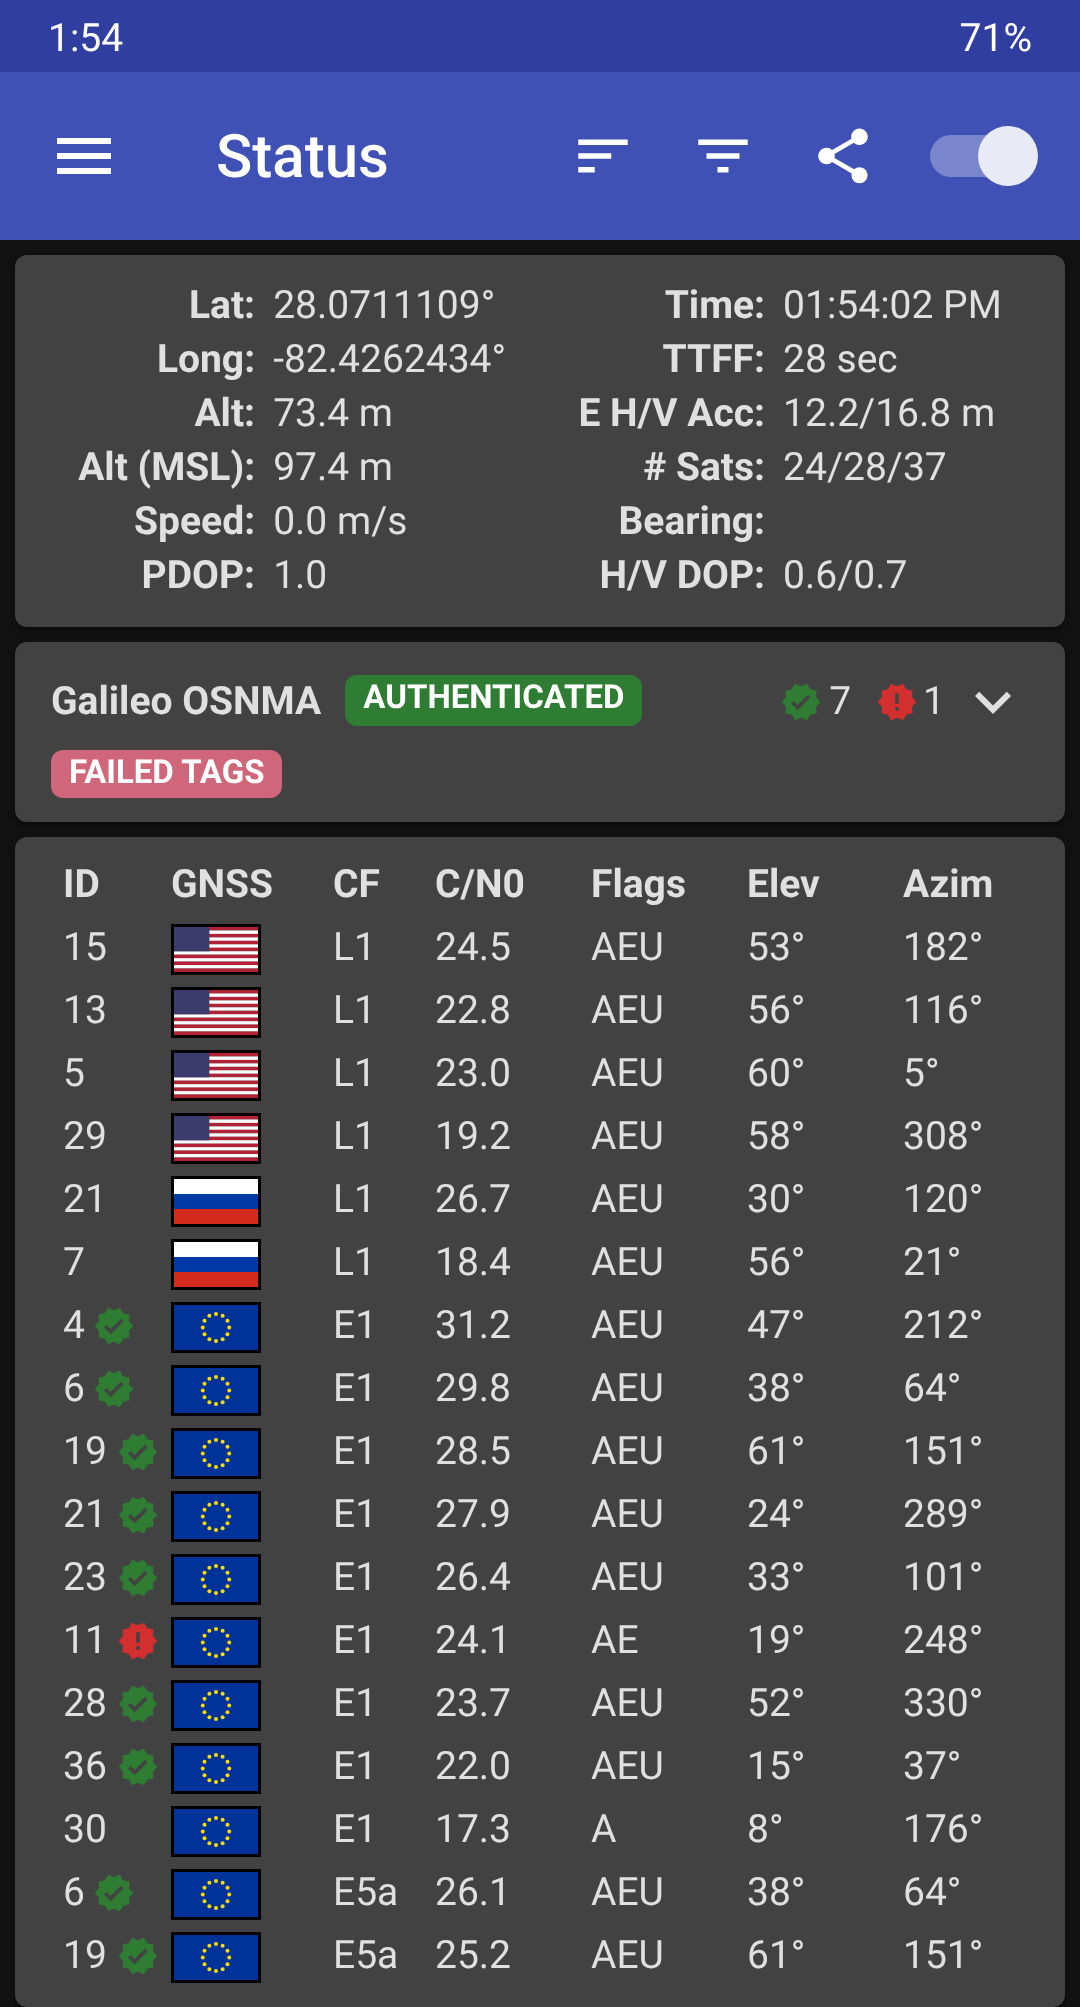
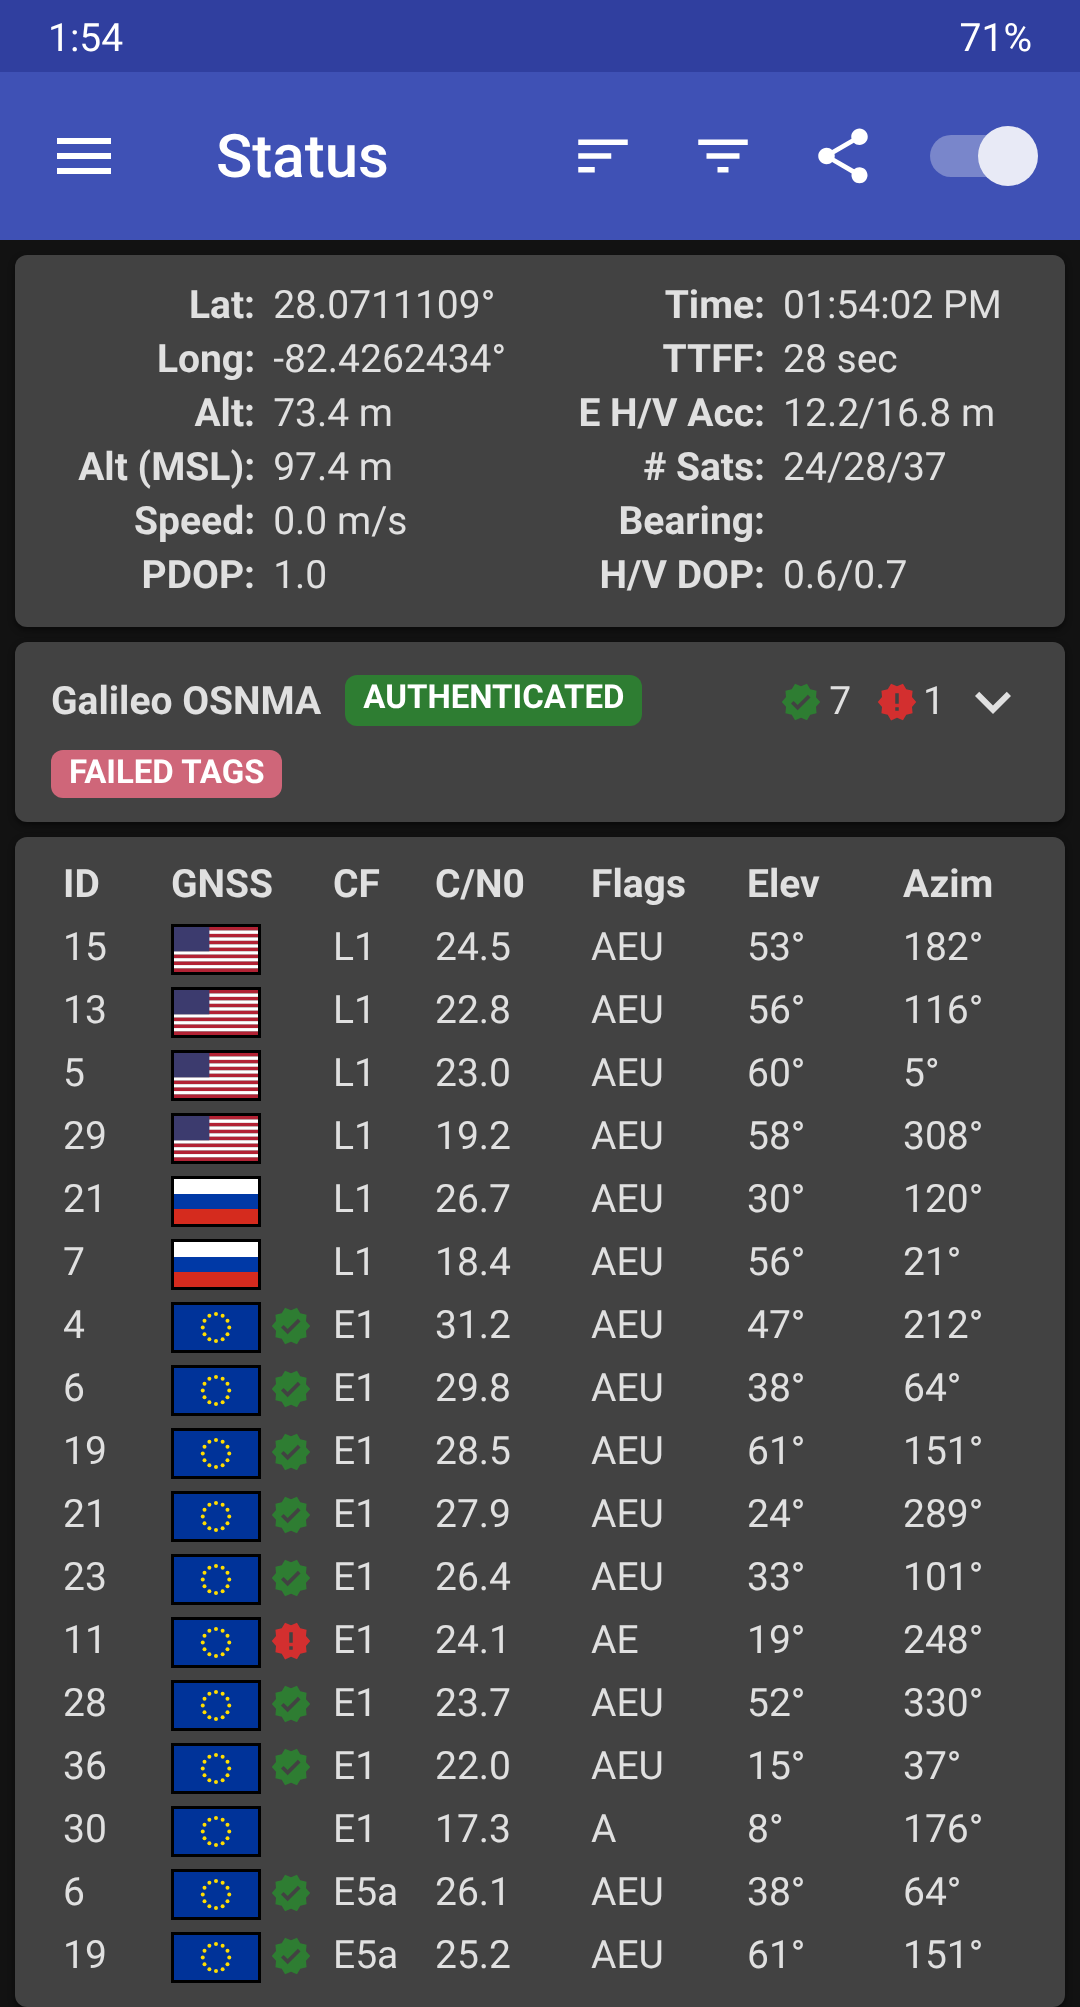
OSNMA: seal next to the flag, Google TrustedTime for the time check
- Show the Galileo OSNMA seal next to the flag instead of the ID: the
  flag leaves room for it within the column's minimum width, so no
  column gets wider on narrow screens
- Google flavor: check the Galileo time against Google Play services'
  TrustedTime API (play-services-time), falling back to network time
  and then the device clock; the osmdroid flavor is unchanged

Claude-Session: https://claude.ai/code/session_01XzyNHxmXusfF5cWYLfTVVF

diff --git a/library/src/main/java/com/android/gpstest/library/data/OsnmaRepository.kt b/library/src/main/java/com/android/gpstest/library/data/OsnmaRepository.kt
@@ -62,17 +62,14 @@ data class OsnmaUiState(
     /** An OSNMA Alert Message revoked the key material; new keys must be imported */
     val keysRevoked: Boolean = false,
     /**
-     * Difference between the reference time ([timeSourceNetwork]) and the Galileo System Time
+     * Difference between the reference time ([timeSource]) and the Galileo System Time
      * read from the signal, in seconds, or null if unknown. OSNMA is only meaningful if the
      * receiver knows the time independently of the signal it authenticates (OSNMA Receiver
      * Guidelines sections 2.1 and 5.3.1); see TimeSync.
      */
     val clockOffsetSeconds: Long? = null,
-    /**
-     * The reference time is Android's network time (NTP, Android 13 and later). Otherwise it's
-     * the device clock, which some devices set from GNSS and so isn't independent of the signal.
-     */
-    val timeSourceNetwork: Boolean = false,
+    /** Where the reference time for [clockOffsetSeconds] comes from */
+    val timeSource: TimeSource = TimeSource.DEVICE_CLOCK,
     /** Galileo pages were being received but stopped arriving while tracking continued */
     val pagesStalled: Boolean = false,
     /** Page timing diagnostics, see [InavTimeTracker] */
@@ -134,6 +131,27 @@ data class OsnmaUiState(
     }
 }
 
+/**
+ * A source of the current time that's independent of GNSS, e.g. Google's TrustedTime API in the
+ * google build flavor (see [OsnmaRepository.trustedTimeSource])
+ */
+fun interface TrustedTimeSource {
+    /** The current UTC time in ms since the Unix epoch, or null if not available right now */
+    fun currentUtcMillis(): Long?
+}
+
+/** Reference time used to check the Galileo time in the signal, in order of preference */
+enum class TimeSource {
+    /** A [TrustedTimeSource], e.g. Google's TrustedTime API (google build flavor) */
+    TRUSTED_TIME,
+
+    /** Android's network time (NTP), Android 13 and later */
+    NETWORK_TIME,
+
+    /** The device clock, which some devices set from GNSS: not independent of the signal */
+    DEVICE_CLOCK
+}
+
 /** Whether the receiver clock (GnssClock) can be used to time Galileo pages, and if not, why */
 enum class ReceiverClockStatus {
     OK,
@@ -188,7 +206,15 @@ class OsnmaRepository @Inject constructor(
     private var crcChecked = 0
     private var trustPlatformParity = false
     private var clockOffsetSeconds: Long? = null
-    private var timeSourceNetwork = false
+    private var timeSource = TimeSource.DEVICE_CLOCK
+
+    /**
+     * Independent time source to check the Galileo time against, set by the app when one is
+     * available (e.g. TrustedTime in the google build flavor). Network time and then the device
+     * clock are used otherwise.
+     */
+    @Volatile
+    var trustedTimeSource: TrustedTimeSource? = null
     @Volatile
     private var receiverClockStatus = ReceiverClockStatus.NO_MEASUREMENTS
 
@@ -363,9 +389,14 @@ class OsnmaRepository @Inject constructor(
             if (timeTracker.lastWasExact) {
                 // Only pages with their own time stamp: the page ended about 2 s after its
                 // start, plus decoding and delivery latency
-                val networkUtc = networkTimeAt(pageArrival)
-                timeSourceNetwork = networkUtc != null
-                val referenceUtc = networkUtc ?: pageWallClock
+                val trustedUtc = trustedTimeAt(pageArrival)
+                val networkUtc = if (trustedUtc == null) networkTimeAt(pageArrival) else null
+                timeSource = when {
+                    trustedUtc != null -> TimeSource.TRUSTED_TIME
+                    networkUtc != null -> TimeSource.NETWORK_TIME
+                    else -> TimeSource.DEVICE_CLOCK
+                }
+                val referenceUtc = trustedUtc ?: networkUtc ?: pageWallClock
                 clockOffsetSeconds = deviceGstSeconds(referenceUtc) - 2 - gst.totalSeconds
             }
             val e = engine ?: newEngine().also { engine = it }
@@ -433,6 +464,16 @@ class OsnmaRepository @Inject constructor(
         val elapsedMillis = clock.elapsedRealtimeNanos / 1_000_000
         if (elapsedMillis <= 0 || gstMillis <= 0) return ReceiverClockStatus.INVALID to null
         return ReceiverClockStatus.OK to Pair(elapsedMillis, gstMillis)
+    }
+
+    /** The [trustedTimeSource]'s time at the local monotonic time [elapsedMillis], or null */
+    private fun trustedTimeAt(elapsedMillis: Long): Long? {
+        val now = try {
+            trustedTimeSource?.currentUtcMillis()
+        } catch (e: Exception) {
+            null
+        } ?: return null
+        return now - (SystemClock.elapsedRealtime() - elapsedMillis)
     }
 
     /**
@@ -515,7 +556,7 @@ class OsnmaRepository @Inject constructor(
             trustingPlatformParity = trustPlatformParity,
             keysRevoked = OsnmaKeyStore.isRevoked(context, prefs),
             clockOffsetSeconds = clockOffsetSeconds,
-            timeSourceNetwork = timeSourceNetwork,
+            timeSource = timeSource,
             pagesStalled = pagesStalled(),
             timingUsesSubframeNumbers = timeTracker.usingSubframeNumbers,
             timingCorrections = timeTracker.corrections,

diff --git a/GPSTest/src/google/java/com/android/gpstest/osnma/OsnmaTimeSources.kt b/GPSTest/src/google/java/com/android/gpstest/osnma/OsnmaTimeSources.kt
@@ -1,0 +1,56 @@
+/*
+ * Copyright (C) 2026 The GPSTest contributors
+ *
+ * Licensed under the Apache License, Version 2.0 (the "License");
+ * you may not use this file except in compliance with the License.
+ * You may obtain a copy of the License at
+ *
+ *      http://www.apache.org/licenses/LICENSE-2.0
+ *
+ * Unless required by applicable law or agreed to in writing, software
+ * distributed under the License is distributed on an "AS IS" BASIS,
+ * WITHOUT WARRANTIES OR CONDITIONS OF ANY KIND, either express or implied.
+ * See the License for the specific language governing permissions and
+ * limitations under the License.
+ */
+package com.android.gpstest.osnma
+
+import android.content.Context
+import android.util.Log
+import com.android.gpstest.library.data.OsnmaRepository
+import com.android.gpstest.library.data.TrustedTimeSource
+import com.google.android.gms.time.TrustedTime
+
+/**
+ * Time sources for the Galileo OSNMA time check in the google build flavor: Google Play services'
+ * TrustedTime API, which is independent of GNSS
+ * (https://developer.android.com/develop/connectivity/trusted-time)
+ */
+object OsnmaTimeSources {
+    private const val TAG = "OsnmaTimeSources"
+
+    @Volatile
+    private var requested = false
+
+    /** Creates the TrustedTime client once and hands it to [repository] when it's ready */
+    fun install(context: Context, repository: OsnmaRepository) {
+        if (requested) return
+        requested = true
+        try {
+            TrustedTime.createClient(context.applicationContext).addOnCompleteListener { task ->
+                if (task.isSuccessful) {
+                    val client = task.result
+                    repository.trustedTimeSource = TrustedTimeSource {
+                        // Null until the device has synchronized with a time server since boot
+                        client?.computeCurrentUnixEpochMillis()
+                    }
+                } else {
+                    Log.w(TAG, "TrustedTime not available: ${task.exception}")
+                }
+            }
+        } catch (e: Exception) {
+            // E.g. no Google Play services: network time or the device clock is used instead
+            Log.w(TAG, "TrustedTime not available: $e")
+        }
+    }
+}

diff --git a/GPSTest/src/main/java/com/android/gpstest/ui/status/StatusScreen.kt b/GPSTest/src/main/java/com/android/gpstest/ui/status/StatusScreen.kt
@@ -229,8 +229,8 @@ fun StatusRow(satelliteStatus: SatelliteStatus, osnmaMark: OsnmaMark? = null) {
         val medium = Modifier.defaultMinSize(minWidth = dimensionResource(R.dimen.min_column_width_medium))
         val large = Modifier.defaultMinSize(minWidth = 50.dp)
 
-        Svid(satelliteStatus, osnmaMark, small)
-        Flag(satelliteStatus, large)
+        Svid(satelliteStatus, small)
+        FlagWithOsnmaMark(satelliteStatus, osnmaMark, large)
         CarrierFrequency(satelliteStatus, small)
         Cn0(satelliteStatus, medium)
         AEU(satelliteStatus, medium)
@@ -240,16 +240,30 @@ fun StatusRow(satelliteStatus: SatelliteStatus, osnmaMark: OsnmaMark? = null) {
 }
 
 @Composable
-fun Svid(satelliteStatus: SatelliteStatus, osnmaMark: OsnmaMark?, modifier: Modifier) {
+fun Svid(satelliteStatus: SatelliteStatus, modifier: Modifier) {
+    StatusValue(satelliteStatus.svid.toString(), modifier = modifier)
+}
+
+/**
+ * The flag, followed by the Galileo OSNMA seal if there is one. The flag (24 dp plus padding)
+ * leaves room for the 12 dp seal within the column's minimum width, so the seal doesn't widen
+ * the column or push the other columns to the right.
+ */
+@Composable
+fun FlagWithOsnmaMark(
+    satelliteStatus: SatelliteStatus,
+    osnmaMark: OsnmaMark?,
+    modifier: Modifier
+) {
     Row(modifier = modifier, verticalAlignment = Alignment.CenterVertically) {
-        StatusValue(satelliteStatus.svid.toString())
+        Flag(satelliteStatus, Modifier)
         OsnmaMarkIcon(osnmaMark)
     }
 }
 
 /**
- * Seal next to the ID of Galileo satellites: green with a check mark if authenticated, red with an
- * exclamation mark if tags failed
+ * Seal for Galileo satellites: green with a check mark if authenticated, red with an exclamation
+ * mark if tags failed
  */
 @Composable
 fun OsnmaMarkIcon(mark: OsnmaMark?) {

diff --git a/GPSTest/src/main/java/com/android/gpstest/ui/status/OsnmaCard.kt b/GPSTest/src/main/java/com/android/gpstest/ui/status/OsnmaCard.kt
@@ -53,6 +53,7 @@ import androidx.compose.ui.unit.sp
 import com.android.gpstest.R
 import com.android.gpstest.library.data.OsnmaUiState
 import com.android.gpstest.library.data.ReceiverClockStatus
+import com.android.gpstest.library.data.TimeSource
 import com.android.gpstest.library.osnma.Gst
 import com.android.gpstest.library.osnma.KeySource
 import com.android.gpstest.library.osnma.MacFunction
@@ -486,10 +487,10 @@ private fun Expanded(state: OsnmaUiState) {
             R.string.osnma_label_clock_offset,
             state.clockOffsetSeconds?.let {
                 stringResource(
-                    if (state.timeSourceNetwork) {
-                        R.string.osnma_clock_offset_network
-                    } else {
-                        R.string.osnma_clock_offset_device
+                    when (state.timeSource) {
+                        TimeSource.TRUSTED_TIME -> R.string.osnma_clock_offset_trusted
+                        TimeSource.NETWORK_TIME -> R.string.osnma_clock_offset_network
+                        TimeSource.DEVICE_CLOCK -> R.string.osnma_clock_offset_device
                     },
                     it
                 )

diff --git a/GPSTest/src/osmdroid/java/com/android/gpstest/osnma/OsnmaTimeSources.kt b/GPSTest/src/osmdroid/java/com/android/gpstest/osnma/OsnmaTimeSources.kt
@@ -1,0 +1,29 @@
+/*
+ * Copyright (C) 2026 The GPSTest contributors
+ *
+ * Licensed under the Apache License, Version 2.0 (the "License");
+ * you may not use this file except in compliance with the License.
+ * You may obtain a copy of the License at
+ *
+ *      http://www.apache.org/licenses/LICENSE-2.0
+ *
+ * Unless required by applicable law or agreed to in writing, software
+ * distributed under the License is distributed on an "AS IS" BASIS,
+ * WITHOUT WARRANTIES OR CONDITIONS OF ANY KIND, either express or implied.
+ * See the License for the specific language governing permissions and
+ * limitations under the License.
+ */
+package com.android.gpstest.osnma
+
+import android.content.Context
+import com.android.gpstest.library.data.OsnmaRepository
+
+/**
+ * Time sources for the Galileo OSNMA time check in the osmdroid build flavor: no Google Play
+ * services, so Android's network time or the device clock is used (see OsnmaRepository)
+ */
+object OsnmaTimeSources {
+    @Suppress("UNUSED_PARAMETER")
+    fun install(context: Context, repository: OsnmaRepository) {
+    }
+}

diff --git a/GPSTest/src/main/java/com/android/gpstest/ForegroundOnlyLocationService.kt b/GPSTest/src/main/java/com/android/gpstest/ForegroundOnlyLocationService.kt
@@ -80,6 +80,7 @@ import com.android.gpstest.library.util.PreferenceUtils
 import com.android.gpstest.library.util.SatelliteUtil.toSatelliteGroup
 import com.android.gpstest.library.util.SatelliteUtil.toSatelliteStatus
 import com.android.gpstest.library.util.SatelliteUtils
+import com.android.gpstest.osnma.OsnmaTimeSources
 import com.android.gpstest.ui.MainActivity
 import dagger.hilt.android.AndroidEntryPoint
 import kotlinx.coroutines.Dispatchers
@@ -154,6 +155,9 @@ class ForegroundOnlyLocationService : LifecycleService() {
         super.onCreate()
         Log.d(TAG, "onCreate()")
         notificationManager = getSystemService(Context.NOTIFICATION_SERVICE) as NotificationManager
+
+        // An independent time source for the Galileo OSNMA time check, if the build flavor has one
+        OsnmaTimeSources.install(applicationContext, osnmaRepository)
 
         csvFileLogger = CsvFileLogger(applicationContext)
         jsonFileLogger = JsonFileLogger(applicationContext)

diff --git a/library/src/test/java/com/android/gpstest/library/osnma/OsnmaCardStateTest.kt b/library/src/test/java/com/android/gpstest/library/osnma/OsnmaCardStateTest.kt
@@ -70,7 +70,11 @@ class OsnmaCardStateTest {
         val state = OsnmaCardState.of(failed, 1, false, 60, true)
         assertEquals(OsnmaMainState.AUTHENTICATED, state.main)
         assertEquals(
-            listOf(OsnmaWarning.FAILED_TAGS, OsnmaWarning.POOR_RECEPTION, OsnmaWarning.SLOW_MAC_ONLY),
+            listOf(
+                OsnmaWarning.FAILED_TAGS,
+                OsnmaWarning.POOR_RECEPTION,
+                OsnmaWarning.SLOW_MAC_ONLY
+            ),
             state.warnings.toList()
         )
     }

diff --git a/OSNMA.md b/OSNMA.md
@@ -32,8 +32,8 @@ tag failed in the last 10 minutes).*
 - Galileo satellites in view, ideally with a clear sky. Authentication starts after a few
   minutes of continuous reception.
 - The correct time: within 15 seconds for all tags, within 165 seconds for slow MAC tags only.
-  GPSTest uses Android's network time where available (Android 13 and later), otherwise the
-  device clock. See [Time check](#time-check).
+  GPSTest uses Google TrustedTime (Google Play build) or Android's network time (Android 13 and
+  later) where available, otherwise the device clock. See [Time check](#time-check).
 
 ## The Status card
 
@@ -81,7 +81,7 @@ In the code, these are `OsnmaMainState` and `OsnmaWarning` (`OsnmaCardState.kt`)
 
 ### Satellite list and sky view
 
-Galileo satellites are marked in the satellite list on the Status screen (next to the ID) and in
+Galileo satellites are marked in the satellite list on the Status screen (next to the flag) and in
 the sky view (at the upper right of the triangle):
 
 - **Green seal with a check mark**: the satellite's ephemeris, clock and health data is
@@ -149,8 +149,11 @@ TESLA keys are published 30 s after the tags they protect, so a spoofer that can
 signal could forge tags if the receiver relied only on the signal for the time. OSNMA therefore
 requires the receiver to know Galileo time on its own (OSNMA Receiver Guidelines, sections 2.1
 and 5.3.1). Each time a page carries its own time stamp, GPSTest compares it with a reference
-time:
+time, the first available of:
 
+- **Google TrustedTime** (Google Play build only): Google Play services' time, synchronized with
+  Google's time servers and independent of GNSS. The **Clock offset** row says "(Google
+  TrustedTime)".
 - **Network time** (Android 13 and later, when the phone has synchronized with a time server).
   It's independent of GNSS.
 - Otherwise the **device clock**. Some phones set it from GNSS, so it isn't fully independent:
